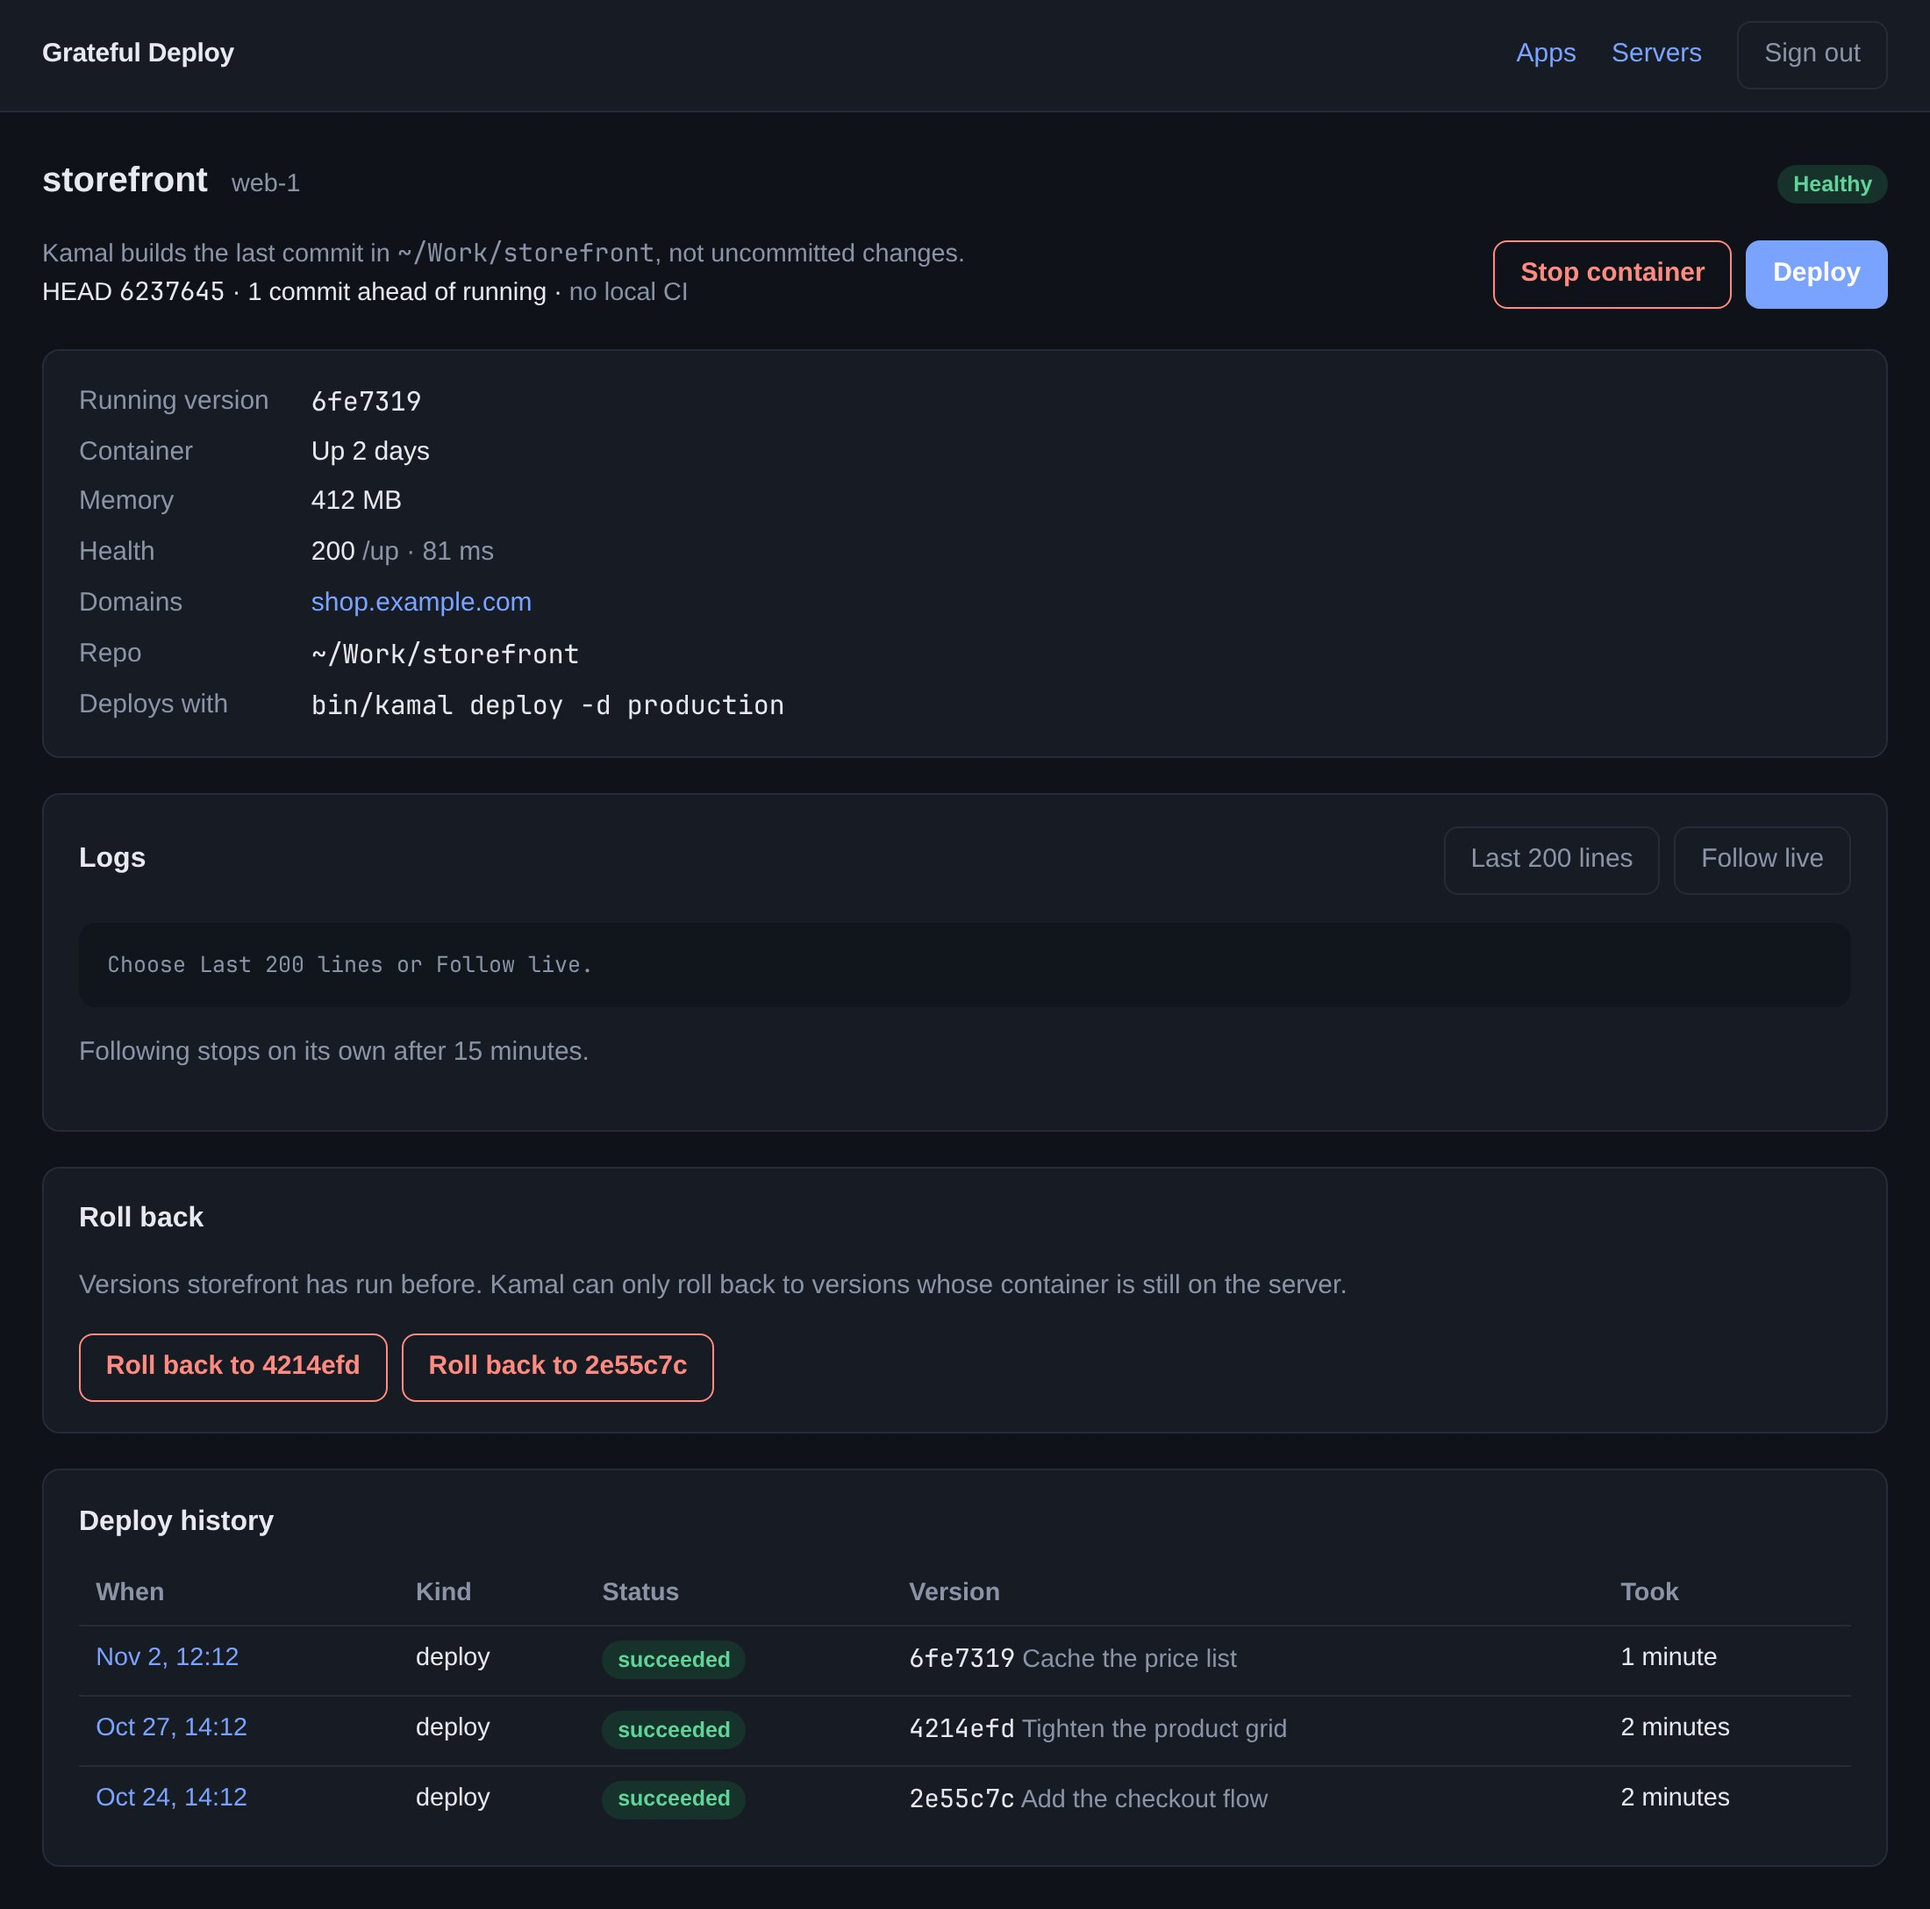
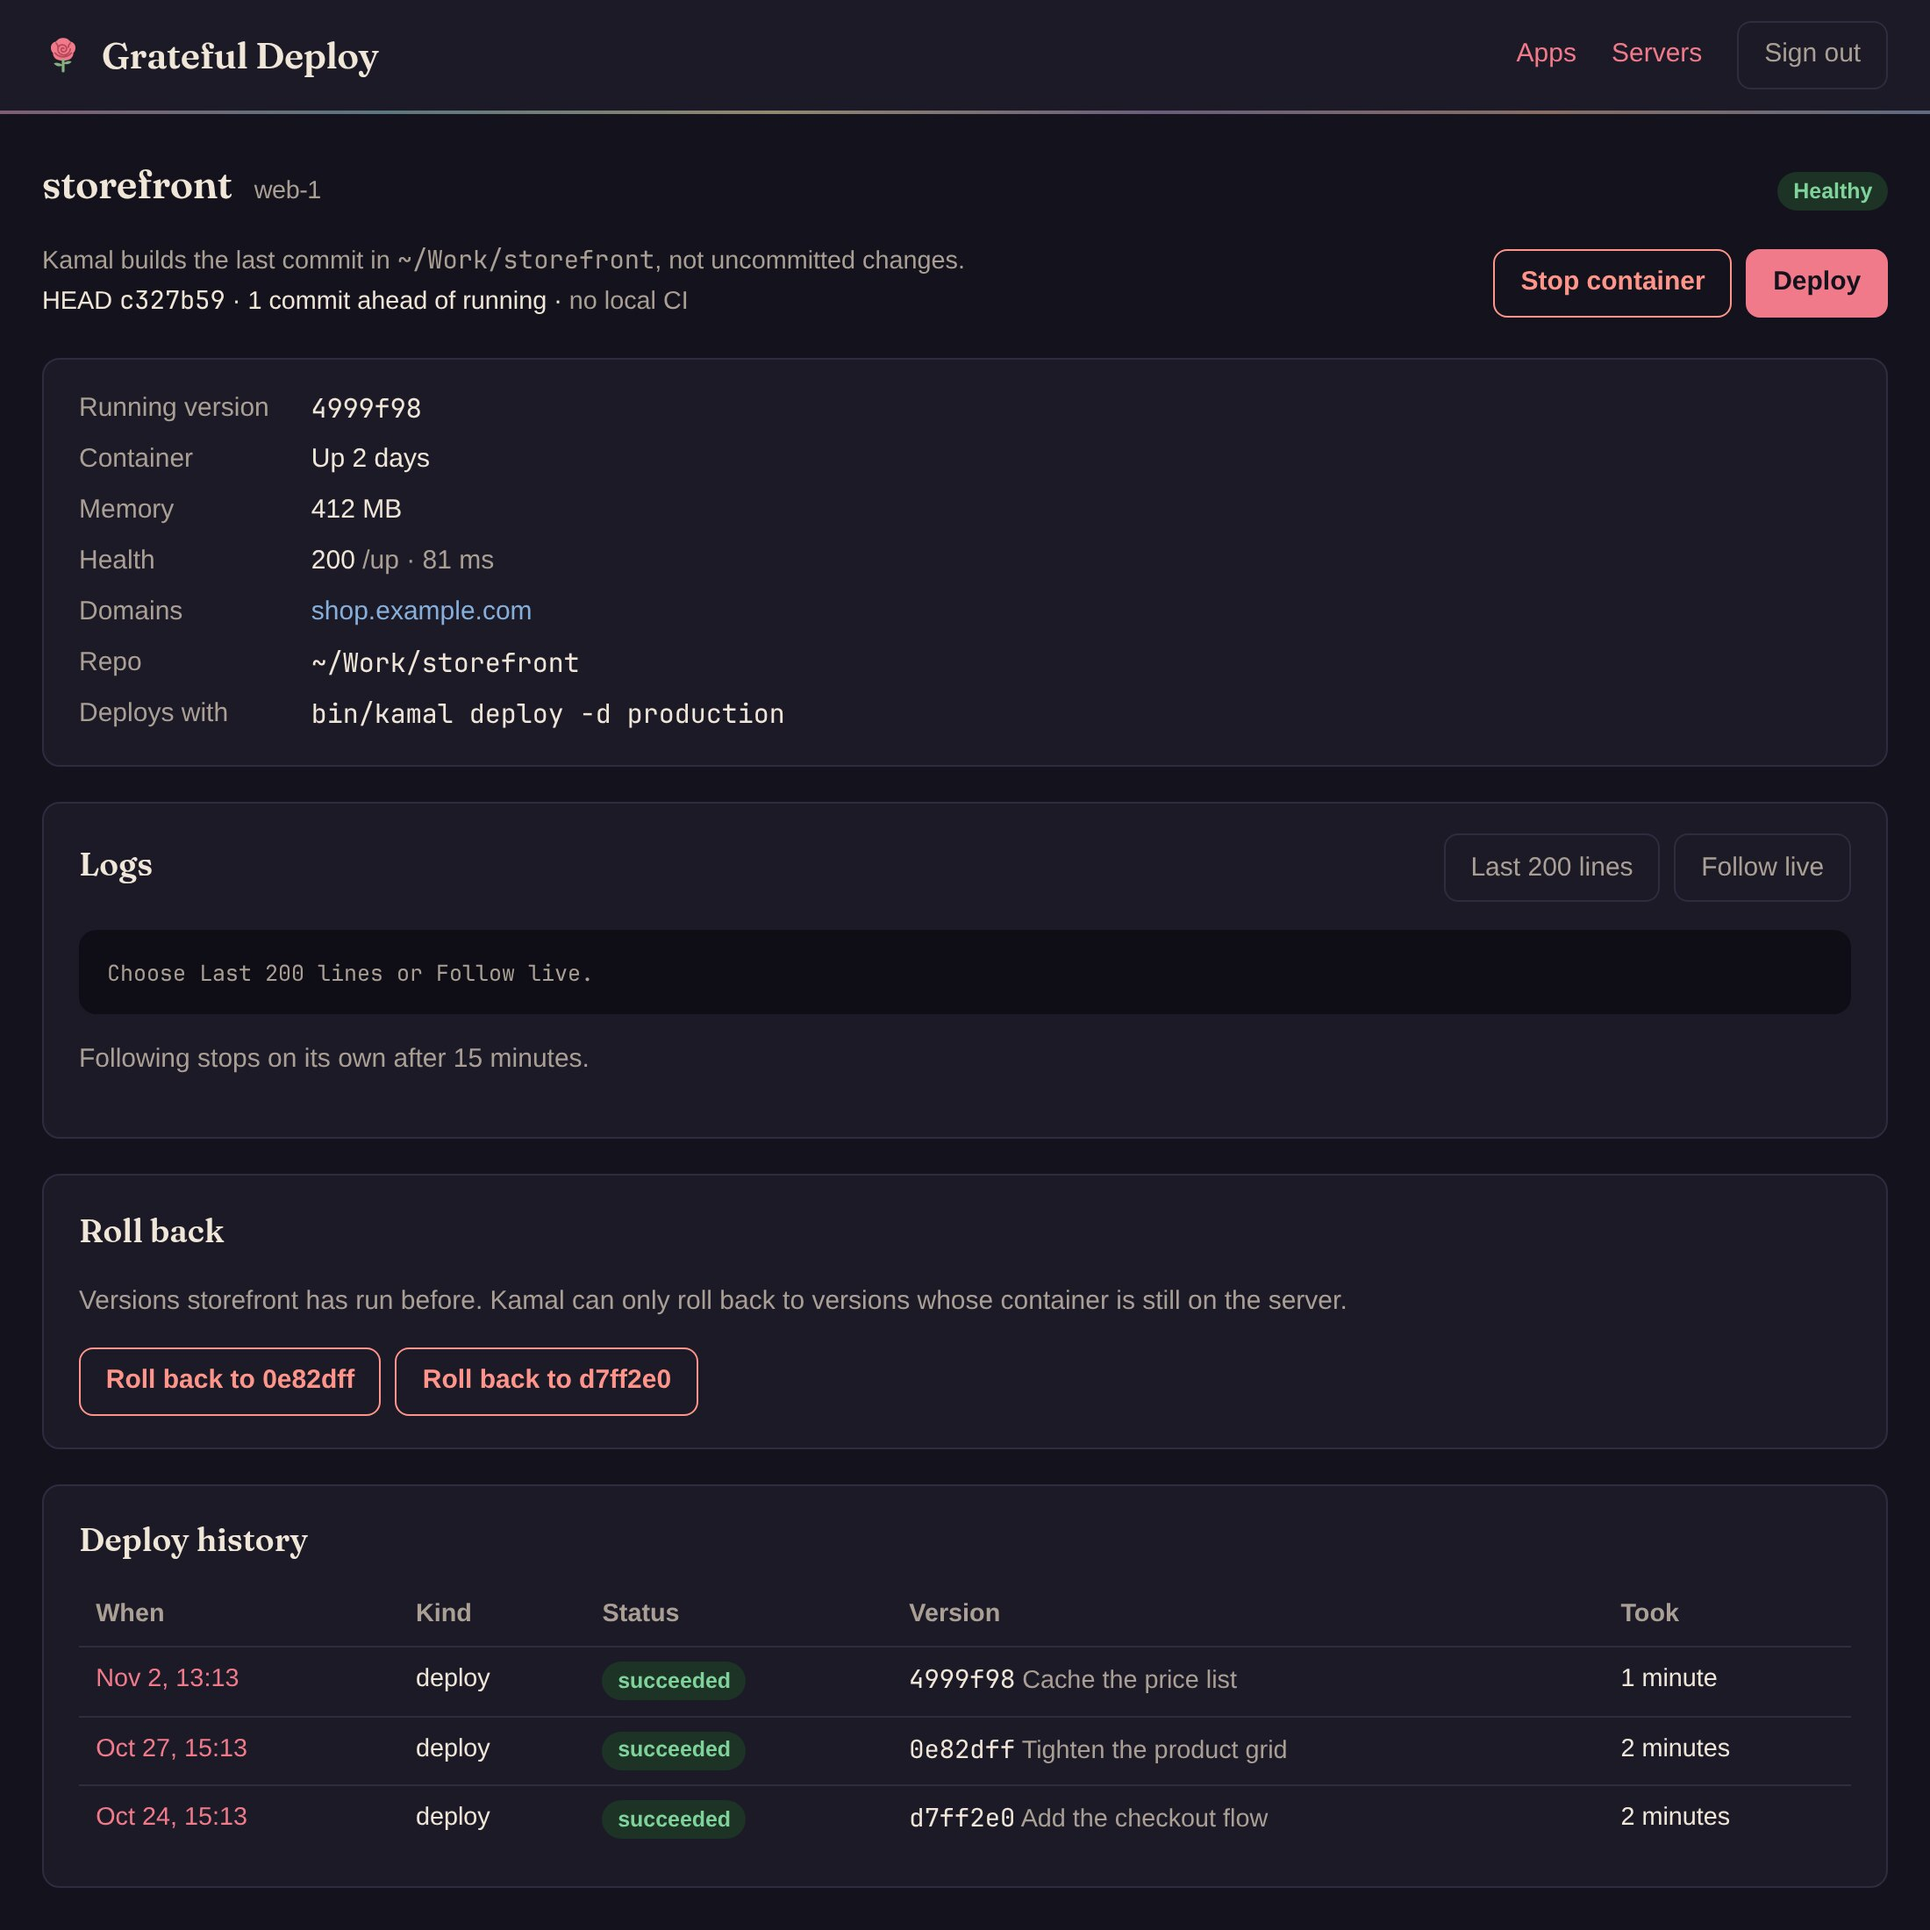
Screenshots of the restyled app

diff --git a/index.html b/index.html
@@ -334,21 +334,21 @@
           <figure>
             <picture>
               <source media="(prefers-color-scheme: dark)" srcset="screenshots/app-dark.jpg">
-              <img src="screenshots/app-light.jpg" width="1100" height="1088" alt="An app page with Deploy and Stop container buttons, running version, health, logs, rollback buttons and deploy history" loading="lazy">
+              <img src="screenshots/app-light.jpg" width="1100" height="1100" alt="An app page with Deploy and Stop container buttons, running version, health, logs, rollback buttons and deploy history" loading="lazy">
             </picture>
             <figcaption><strong>App</strong>Deploy with one button and see how far HEAD is ahead of what's running, then roll back, read logs or check the history.</figcaption>
           </figure>
           <figure>
             <picture>
               <source media="(prefers-color-scheme: dark)" srcset="screenshots/deploy-log-dark.jpg">
-              <img src="screenshots/deploy-log-light.jpg" width="1100" height="940" alt="A finished deploy with its commit, timing and Kamal's full output" loading="lazy">
+              <img src="screenshots/deploy-log-light.jpg" width="1100" height="948" alt="A finished deploy with its commit, timing and Kamal's full output" loading="lazy">
             </picture>
             <figcaption><strong>Deploy</strong>Kamal's output as it happened, with secrets masked.</figcaption>
           </figure>
           <figure>
             <picture>
               <source media="(prefers-color-scheme: dark)" srcset="screenshots/servers-dark.jpg">
-              <img src="screenshots/servers-light.jpg" width="1100" height="977" alt="The servers page: memory, disk, swap and load bars and a table of containers for each server" loading="lazy">
+              <img src="screenshots/servers-light.jpg" width="1100" height="985" alt="The servers page: memory, disk, swap and load bars and a table of containers for each server" loading="lazy">
             </picture>
             <figcaption><strong>Servers</strong>RAM, disk, swap, load and containers on each server.</figcaption>
           </figure>
